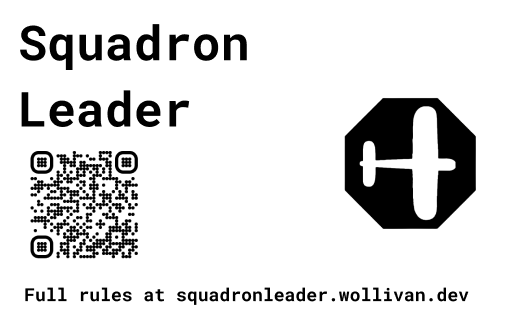
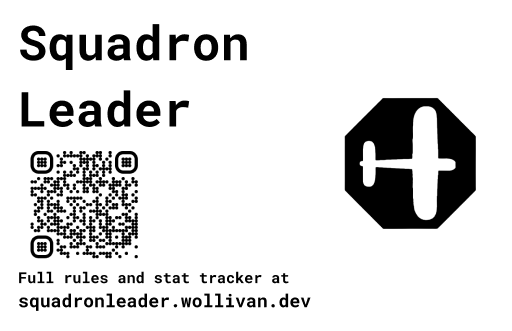
Change structure of rules call to action

Changed region(s): [[0.0312, 0.8157, 0.9375, 0.9366], [0.0625, 0.4532, 0.2812, 0.7855]]

diff --git a/README.md b/README.md
@@ -18,9 +18,17 @@ We encourage the use of house rules, and if you think your rule improves the gam
 
 Tin art by Robert Linneman after the original Squadron Leader tobacco tin.
 
-#### How to play
+#### Learn the Game
 
-Check out the <a href="https://squadronleader.netlify.app/rules">rules</a> page for how to play, and once you get the hang of it, head on over to the <a href="https://squadronleader.netlify.app/rules/advanced">advanced rules</a> to see how much of an Ace you are!
+<a href="https://squadronleader.netlify.app/rules" class="button">How to Play</a>
+
+Once you get the hang of the rules, checkout the Advanced Manoeuvres:
+
+<a href="https://squadronleader.netlify.app/rules/advanced-manoeuvres" class="button">Advanced Manoeuvres</a>
+
+When you're ready to start playing, you can use the plane tracker to make it easier to remember the different plane's stats.
+
+<a href="https://squadronleader.netlify.app/tracker" class="button">Plane Stat Tracker</a>
 
 #### Get Involved
 

diff --git a/Rules/rules.md b/Rules/rules.md
@@ -30,6 +30,8 @@ A good starting setup for new players is:
 - Attack - 2
 - Manoeuvrability - 4
 
+If you don't have any of the printable stat trackers, use the <a href="https://squadronleader.netlify.app/rules/advanced-manoeuvres">digital plane stat tracker</a>.
+
 The last player who saw a plane in real life goes first.
 
 Each player places their plane on the playing area in turn.
